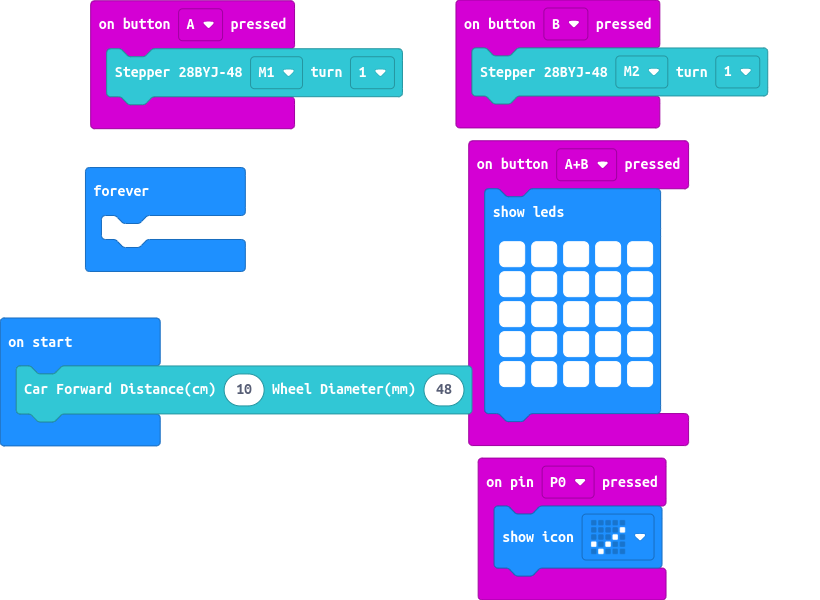
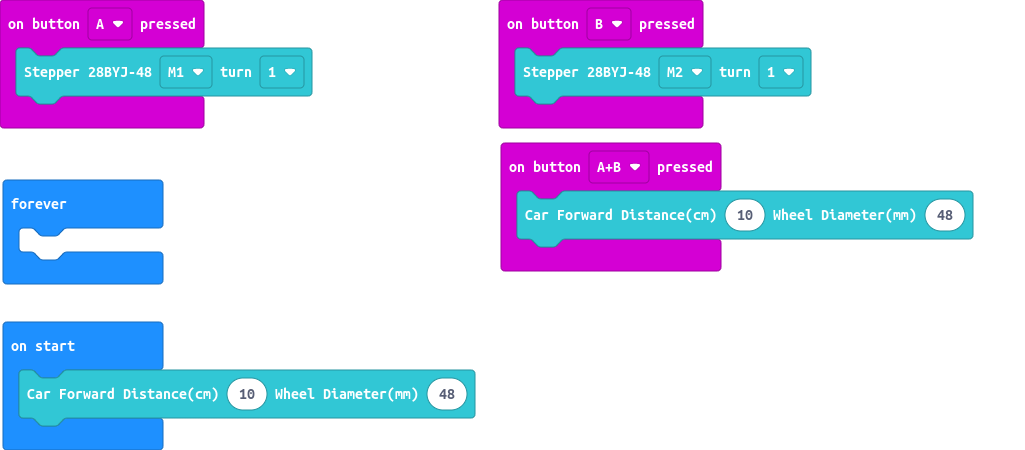
Move

diff --git a/main.ts b/main.ts
@@ -1,17 +1,8 @@
-input.onPinPressed(TouchPin.P0, function () {
-    basic.showIcon(IconNames.Yes)
-})
 input.onButtonPressed(Button.A, function () {
     robotbit.StepperTurn(robotbit.Steppers.M1, robotbit.Turns.T1B0)
 })
 input.onButtonPressed(Button.AB, function () {
-    basic.showLeds(`
-        # # # # #
-        # # # # #
-        # # # # #
-        # # # # #
-        # # # # #
-        `)
+    robotbit.StpCarMove(10, 48)
 })
 input.onButtonPressed(Button.B, function () {
     robotbit.StepperTurn(robotbit.Steppers.M2, robotbit.Turns.T1B0)
